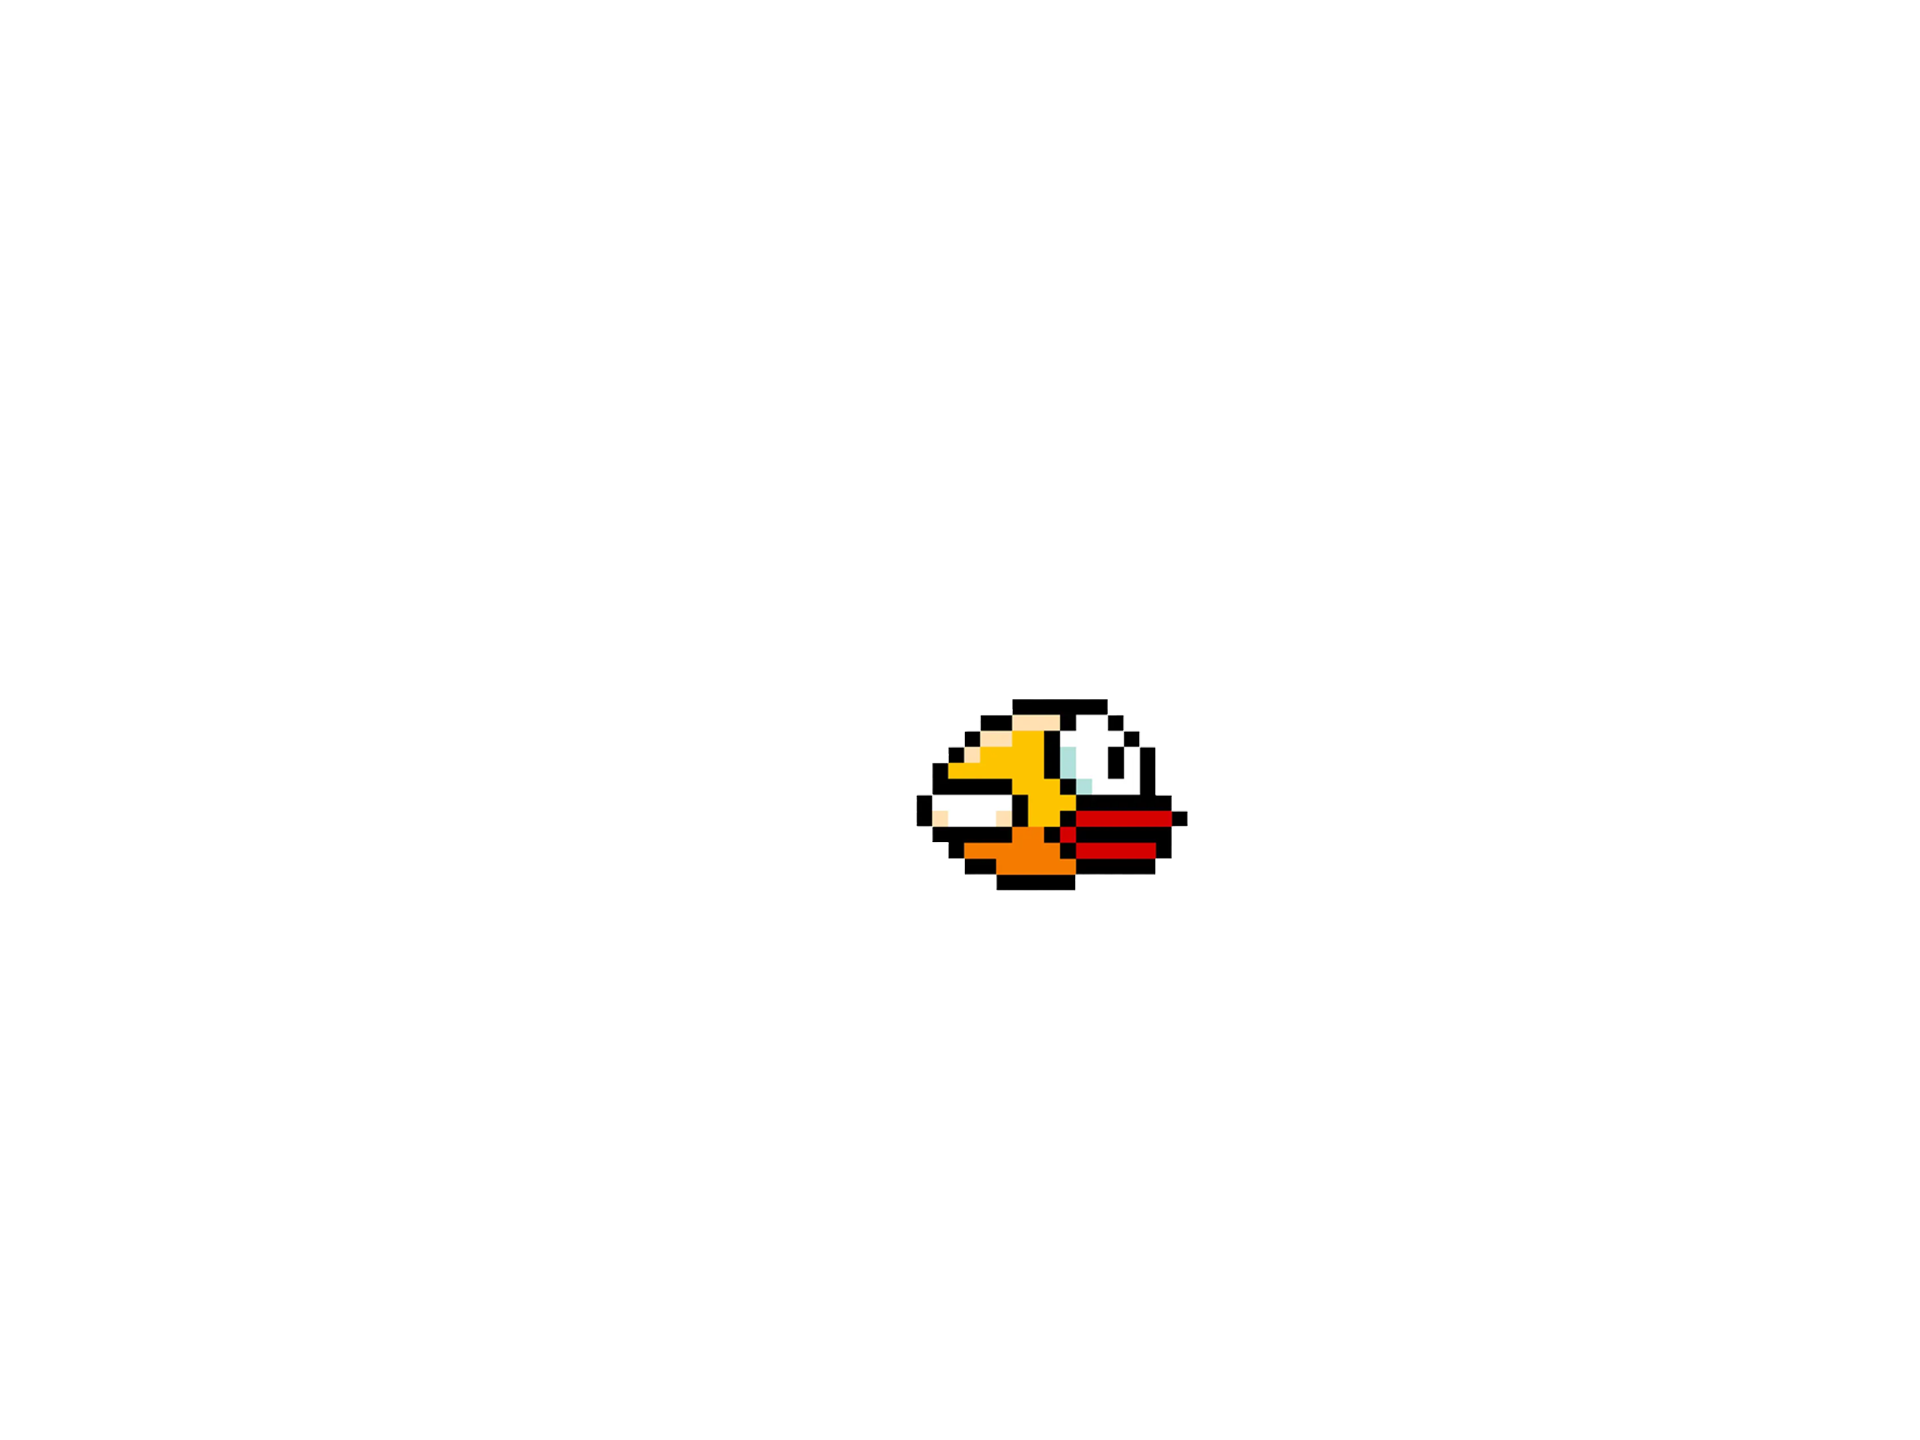
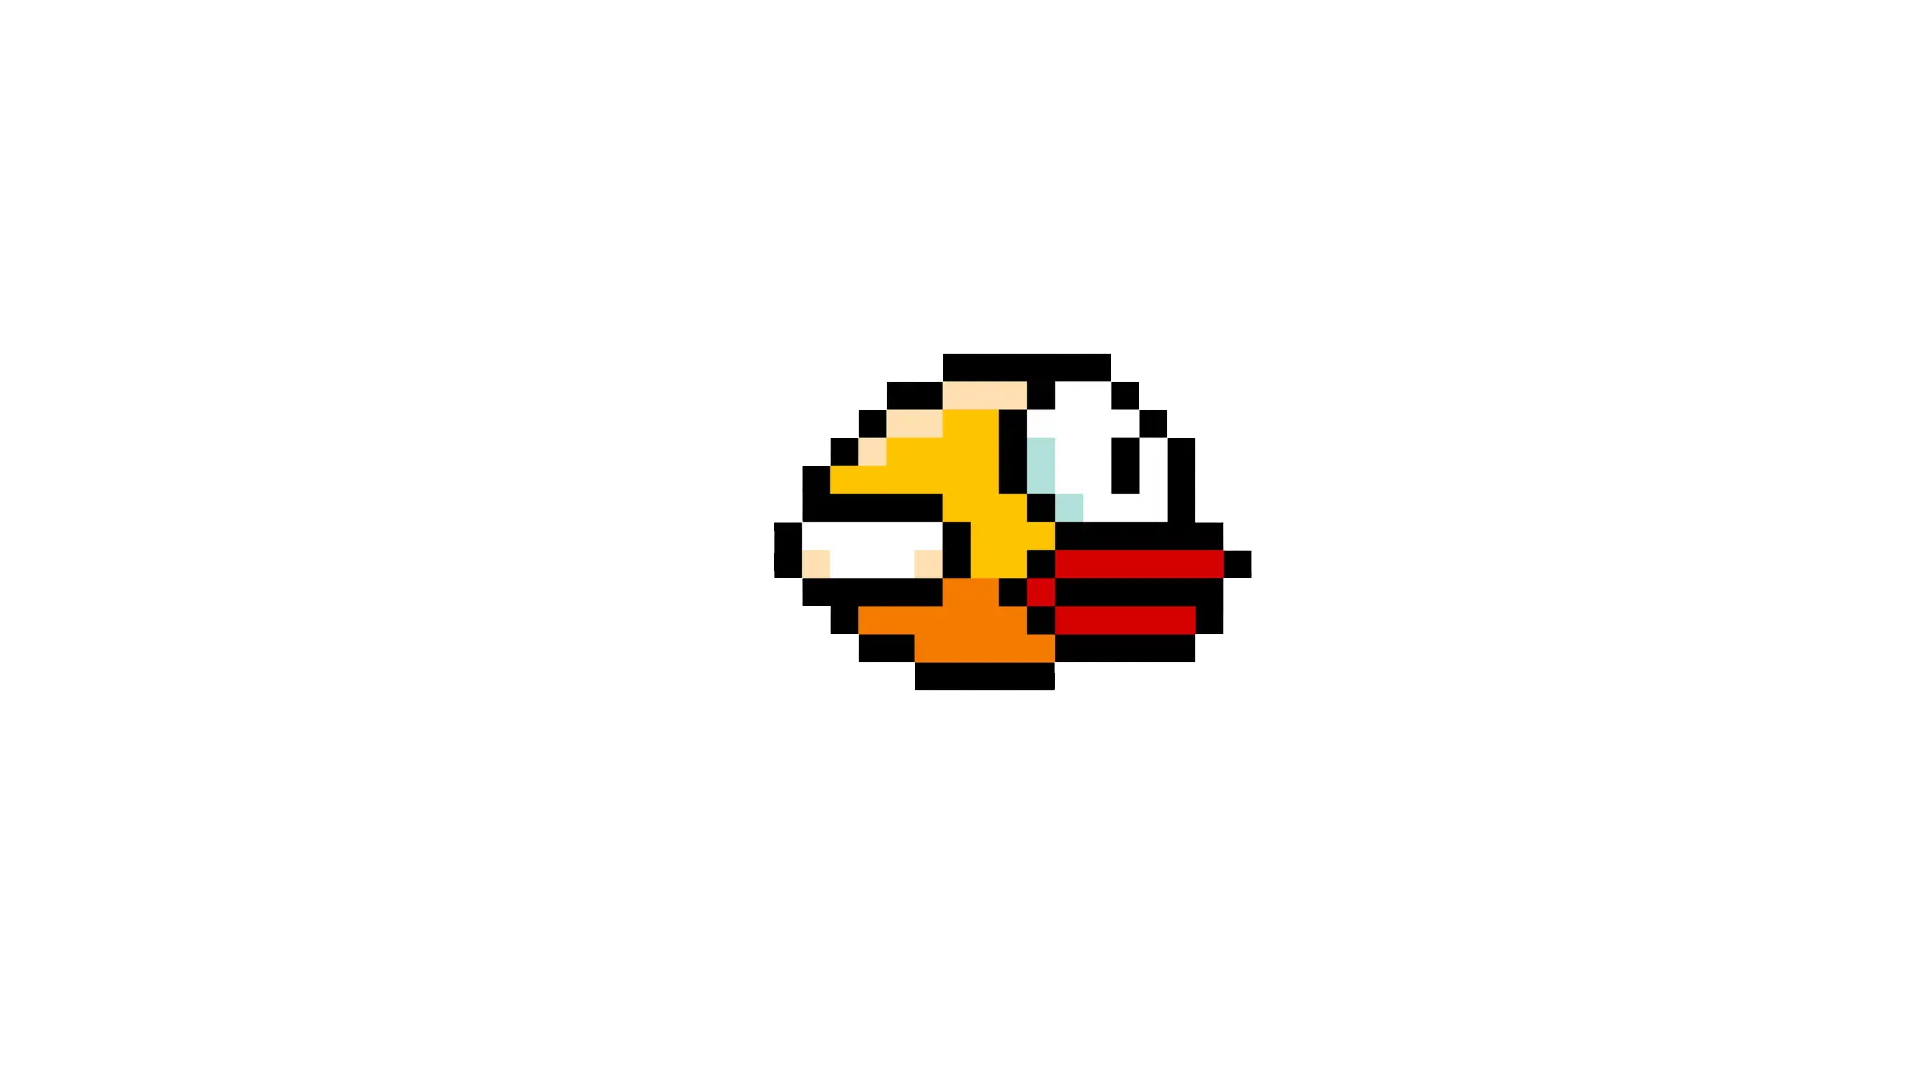
Implement Pipe Management and Rendering with Collision Detection
- Added a static vector `pipes` in the Pipe class to manage all pipe instances.
- Implemented static methods for adding, updating, and drawing pipes.
- Defined static member `pipes` in Pipe.cpp to ensure proper allocation.
- Updated `main.cpp` to use static methods and the static getter function for pipe management.
- Fixed rendering issues to correctly display both bird and pipe sprites.
- Implemented collision detection between the bird and pipes.
- Added error handling for texture loading.

Changes include:
- Pipe class header and source files updated to handle pipe management and rendering.
- Main game loop updated for pipe management and collision detection.
- Verified successful rendering of bird and pipe sprites.
- Ensured collision detection logic correctly identifies interactions between the bird and pipes.

This update improves game logic by centralizing pipe management, fixing rendering issues, and adding collision detection.

Changed region(s): [[0.4062, 0.3056, 0.6562, 0.6417]]

diff --git a/Flappy Birds/main.cpp b/Flappy Birds/main.cpp
@@ -1,7 +1,11 @@
 #include <iostream>
 #include "Bird.h"
 #include "Pipe.h"
+#include "Background.h"
 #include <SFML/Graphics.hpp>
+#include <vector>
+#include <ctime>
+#include <cstdlib>
 
 
 #define SCREEN_WIDTH 1920
@@ -9,19 +13,18 @@
 
 int main()
 {
+    //Initialize a random seed
+    std::srand(static_cast<unsigned>(std::time(nullptr)));
+
     // Create the main window
     sf::RenderWindow window(sf::VideoMode(SCREEN_WIDTH, SCREEN_HEIGHT), "Flappy Bird!");
 
-    //Grab the background and load it as a texture
-    sf::Texture backgroundTexture;
-    if (!backgroundTexture.loadFromFile("assets/background.png"))
-        std::cerr << "Error loading background.png" << std::endl;
-    else
-        std::cout << "background.png successfully loaded" << std::endl;
+    //Declaring the background, bird and pipe objects
+    Background background;
+    Bird bird;
 
-    // Make the background a sprite and set the texture
-    sf::Sprite backgroundSprite;
-    backgroundSprite.setTexture(backgroundTexture);
+    //Add the inital pipes
+    Pipe::addPipe(SCREEN_WIDTH);
 
     // Start the game loop
     while (window.isOpen()) {
@@ -30,28 +33,40 @@ int main()
         while (window.pollEvent(event)) {
             if (event.type == sf::Event::Closed)
                 window.close();
-            if (event.type == sf::Event::KeyPressed && event.key.code == sf::Keyboard::Space) {
+            if (event.type == sf::Event::KeyPressed && event.key.code == sf::Keyboard::Space)
+                bird.flap();
+        }
 
+        //Update the bird
+        bird.update();
+        
+        //Update the pipes
+        Pipe::updatePipes();
+
+        //Check for collisions
+        for (const auto& pipe : Pipe::getPipes()) {
+            if (bird.getBounds().intersects(pipe.getBounds())) {
+                std::cout << "Collision detected!" << std::endl;
+                window.close();
             }
-          
         }
 
         // Clear screen
         window.clear();
 
         // Update and render the game objects here
-
         //Render background
-        window.draw(backgroundSprite);
+        background.draw(window);
 
         //Render bird
+        bird.draw(window);
 
         //Render pipes
+        Pipe::drawPipes(window);
 
         // Update the window
-        window.display();
+          window.display();
     }
-
 
 	return 0;
 }

diff --git a/Flappy Birds/Pipe.cpp b/Flappy Birds/Pipe.cpp
@@ -1,7 +1,10 @@
 #include "Pipe.h"
 #include <iostream>
 
-Pipe::Pipe(float StartX) {		//This line defines the constructor for the pipe class. The startx para specifies the inital position of the pipe
+//Initalize the static member
+std::vector<Pipe> Pipe::pipes;
+
+Pipe::Pipe(float startX) {		//This line defines the constructor for the pipe class. The startx para specifies the inital position of the pipe
 	if (!texture.loadFromFile("assets/pipe.png")) {
 		std::cerr << "Error loading pipe.png" << std::endl;
 	}
@@ -10,7 +13,8 @@ Pipe::Pipe(float StartX) {		//This line defines the constructor for the pipe cla
 	}
 
 	sprite.setTexture(texture);		//This sets the texture of the sprite to the loaded texture
-	sprite.setPosition(StartX, rand() % 400);		//This line sets the initial position of the sprite to coordinates (startX, rand() % 400) on the screen. The x-coordinate is startX, and the y-coordinate is a random value between 0 and 399. This randomizes the vertical position of the pipe.
+	sprite.setPosition(startX, std::rand()%(1080-200));	//This line sets the initial position of the sprite to coordinates (startX, rand() % 400) on the screen. The x-coordinate is startX, and the y-coordinate is a random value between 0 and 399. This randomizes the vertical position of the pipe.
+	sprite.setScale(1, 2.3);	//Adjusting the scaling for the pipes
 }
 
 void Pipe::update() {
@@ -23,4 +27,25 @@ void Pipe::draw(sf::RenderWindow& window) const {
 
 sf::FloatRect Pipe::getBounds() const {		//Get Bounds Method Definition: This line defines the getBounds method, which returns the bounding rectangle of the pipe. The const keyword indicates that this method does not modify the state of the object.
 	return sprite.getGlobalBounds();
+}
+
+//Static Methods to manage the pipes
+void Pipe::addPipe(float startX) {
+	pipes.emplace_back(startX);
+}
+
+void Pipe::updatePipes() {
+	for (auto& pipe : pipes) {
+		pipe.update();
+	}
+}
+
+void Pipe::drawPipes(sf::RenderWindow& window) {
+	for (const auto& pipe : pipes) {
+		pipe.draw(window);
+	}
+}
+
+const std::vector<Pipe>& Pipe::getPipes() {
+	return pipes;
 }

diff --git a/Flappy Birds/Pipe.h b/Flappy Birds/Pipe.h
@@ -3,7 +3,7 @@
 #define PIPE_H
 
 #include <SFML/Graphics.hpp>  //This includes the SFML graphics library which provides the functionality to handle graphics,windows and events
-
+#include <vector>
 
 class Pipe
 {
@@ -13,10 +13,21 @@ public: //These are functions that are publicy accessible
 	void draw(sf::RenderWindow& window) const;	//A function to draw the pipes on the window
 	sf::FloatRect getBounds() const;	//This declares the getBounds method, which will return the bounding rectangle of the pipe
 
+	//These functions will handle with the pipes being displayed
+	static void addPipe(float startX);
+	static void updatePipes();
+	static void drawPipes(sf::RenderWindow& window);
+
+	//Static getter function for pipes
+	static const std::vector<Pipe>& getPipes();
+
 private:  //These are functions that are not publicy accessible
 	sf::Sprite sprite;	//An object to represent the pipe
 	sf::Texture texture;	// An object to hold the image for the bird
-	float speed = 5.0f;		//This declares a float variable speed and initializes it to 5.0. This represents the speed at which the pipe moves horizontally across the screen
+	float speed = 0.3f;		//This declares a float variable speed and initializes it to 2.0. This represents the speed at which the pipe moves horizontally across the screen
+	
+	//A vector for pipes
+	static std::vector<Pipe> pipes;
 };
 
 

diff --git a/Flappy Birds/Bird.h b/Flappy Birds/Bird.h
@@ -9,7 +9,7 @@ class Bird {
 public:		//These are functions that are publicy accessible
 	Bird();		//The constructer, which initializes a new instance of the 'Bird' class
 	void update();	//A function to update the bird's state
-	void draw(sf::RenderWindow& window);	//A function to draw the bird on the window
+	void draw(sf::RenderWindow& window) const;	//A function to draw the bird on the window
 	void flap();	//A function to make the bird flap - this then affects its velocity
 	sf::FloatRect getBounds() const;
 
@@ -17,8 +17,8 @@ private:	//these are objects and functions that are not publicly accessible
 	sf::Sprite sprite;	//An object to represent the bird
 	sf::Texture texture;	// An object to hold the image for the bird
 	float velocity;		// A float variable to store the velocity of the bird 
-	const float gravity = 0.5f;	// A float value that represent the gravitational force applied to the bird (it remains constant)
-	const float flapStrength = -10.0f;	// A float value that represents the upward force applied to the bird when it flaps 
+	const float gravity = 0.0005f;	// A float value that represent the gravitational force applied to the bird (it remains constant)
+	const float flapStrength = -0.5f;	// A float value that represents the upward force applied to the bird when it flaps 
 };
 
 #endif

diff --git a/Flappy Birds/Bird.cpp b/Flappy Birds/Bird.cpp
@@ -4,13 +4,14 @@
 Bird::Bird() {
 	if (!texture.loadFromFile("assets/bird.png")) {
 		std::cerr << "Error loading bird.png" << std::endl;
-	}
+	} 
 	else {
 		std::cout << "Successfully loaded bird.png" << std::endl;
 	}
 
 	sprite.setTexture(texture);		//This sets the sprite to a loaded texture 'texture'
-	sprite.setPosition(100,300);	//Setting the intial position of the sprite
+	sprite.setPosition(100,500);	//Setting the intial position of the sprite
+	sprite.scale(0.2,0.2);
 	velocity = 0;	//Initalizing the bird's veloicty
 }
 
@@ -19,13 +20,15 @@ void Bird::update() {
 	sprite.move(0, velocity);	//The bird only moves vertically as the x component is set to 0 and y is set to the velocity
 
 	//Preventing the bird from falling off the screen
-	if (sprite.getPosition().y > 600) {
-		sprite.setPosition(100, 600);
-		velocity = 0;
+	if (sprite.getPosition().y > 1080) {
+		sprite.setPosition(100, 0);
+	}
+	if (sprite.getPosition().y < 0) {
+		sprite.setPosition(100, 1080);
 	}
 }
 
-void Bird::draw(sf::RenderWindow& window) { //Draw the bird on the window
+void Bird::draw(sf::RenderWindow& window) const { //Draw the bird on the window
 	window.draw(sprite);
 }
 

diff --git a/Flappy Birds/Background.cpp b/Flappy Birds/Background.cpp
@@ -1,0 +1,19 @@
+#include "Background.h"
+#include <iostream>
+
+//Grab the background and load it as a texture
+Background::Background() {
+    if (!texture.loadFromFile("assets/background.png")) {
+        std::cerr << "Error loading background.png" << std::endl;
+    }
+    else
+        std::cout << "background.png successfully loaded" << std::endl;
+
+    // Make the background a sprite and set the texture
+    sprite.setTexture(texture);
+    sprite.setPosition(0, 0); // Position at the top-left corner
+}
+
+void Background::draw(sf::RenderWindow& window) const {
+    window.draw(sprite);
+}

diff --git a/Flappy Birds/Background.h b/Flappy Birds/Background.h
@@ -1,0 +1,18 @@
+#pragma once
+#ifndef BACKGROUND_H
+#define BACKGROUND_H
+
+#include <SFML/Graphics.hpp>
+
+class Background {
+public:
+    Background();
+    void draw(sf::RenderWindow& window) const;
+
+private:
+    sf::Sprite sprite;
+    sf::Texture texture;
+};
+
+#endif // BACKGROUND_H
+
